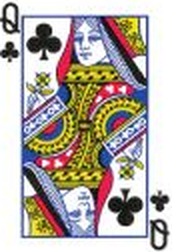
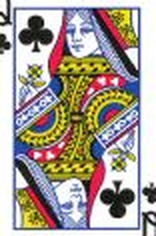
Remove outer border from Blackjack court card art
Re-crop the 12 J/Q/K images to shave off each source card's outer border
outline (keeping the corner indices), so the artwork bleeds to the
game card's rounded edge and looks like a real card instead of a framed
picture. Bump CACHE_VERSION to v16.5.

Claude-Session: https://claude.ai/code/session_018dSC3E2dkUgQ9j1s6YYj7x

diff --git a/service-worker.js b/service-worker.js
@@ -10,7 +10,7 @@
  * When the user taps it, the page posts SKIP_WAITING (below) so the new worker
  * activates immediately, then the page reloads onto the new version.
  */
-const CACHE_VERSION = 'alisha-arcade-v16.4';
+const CACHE_VERSION = 'alisha-arcade-v16.5';
 
 // Everything the app needs to run fully offline.
 const ASSETS = [
